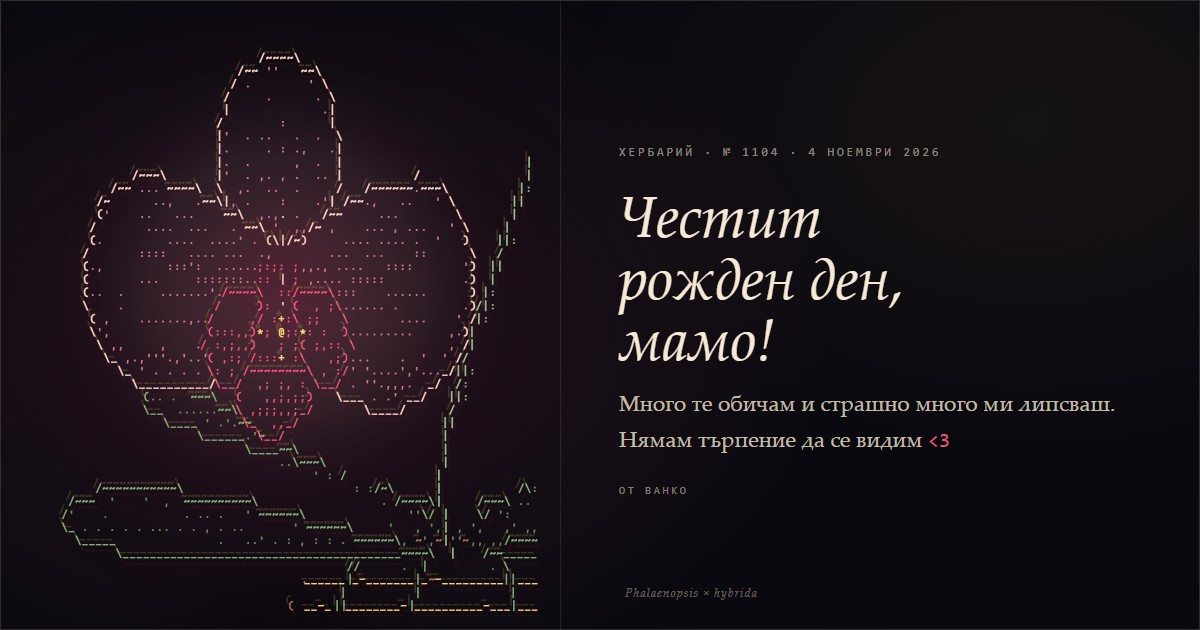
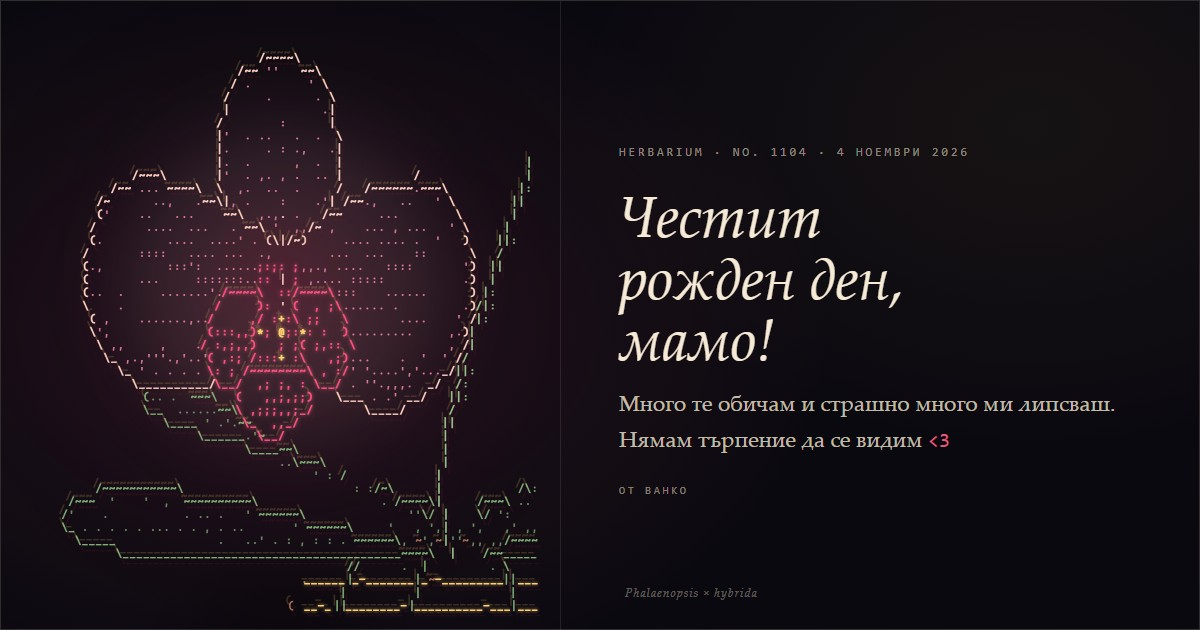
feat: orchid v6 — distinctive lip, flower physics, wider turn
Full dense plant remains the default; all blooms open together. The labellum and column are re-inked on top with a glow, each flower has an independent spring, yaw/pitch ranges are wider, and only the date and wish remain Bulgarian.

diff --git a/static/orchid1104/src/scene.js b/static/orchid1104/src/scene.js
@@ -48,6 +48,7 @@ export class OrchidScene {
     this.onState = onState;
     this.occupied = Array.from({ length: art.rows }, () => Array(art.cols).fill(false));
     for (const c of art.cells) this.occupied[c.y][c.x] = true;
+    this.initBloomPhysics();
     this.time = 0;
     this.theme = reduced ? 1 : 0;
     this.manualTheme = null;
@@ -80,6 +81,14 @@ export class OrchidScene {
     this.resize();
   }
 
+  initBloomPhysics() {
+    this.bphysics = this.art.blooms.map((b, i) => ({
+      x: 0, y: 0, vx: 0, vy: 0,
+      rot: 0, vrot: 0,
+      phase: i * 2.13 + 0.7
+    }));
+  }
+
   initParticles() {
     const cols = this.art.cols, rows = this.art.rows;
     const count = cols > 80 ? 44 : 28;
@@ -103,6 +112,7 @@ export class OrchidScene {
     this.art = art;
     this.occupied = Array.from({ length: art.rows }, () => Array(art.cols).fill(false));
     for (const c of art.cells) this.occupied[c.y][c.x] = true;
+    this.initBloomPhysics();
     this.cameraMode = cameraMode;
     this.setCamera(cameraMode);
     this.initParticles();
@@ -190,6 +200,7 @@ export class OrchidScene {
     this.hearts = [];
     this.heartsSpawned = false;
     this.lastPetal = 0;
+    this.initBloomPhysics();
     this.initParticles();
     this.emit(true);
     if (this.reduced) this.draw();
@@ -248,12 +259,34 @@ export class OrchidScene {
     this.yawVel += (targetYaw - this.yaw) * k * dt;
     this.yawVel *= Math.pow(damp, dt * 60);
     this.yaw += this.yawVel * dt;
-    this.yaw = clamp(this.yaw, -30, 30);
+    this.yaw = clamp(this.yaw, -55, 55);
 
     this.pitchVel += (this.pitchTarget - this.pitch) * 30 * dt;
     this.pitchVel *= Math.pow(0.86, dt * 60);
     this.pitch += this.pitchVel * dt;
-    this.pitch = clamp(this.pitch, -14, 14);
+    this.pitch = clamp(this.pitch, -20, 20);
+
+    // each flower has its own spring: it lags the plant, sways on its own
+    // phase, and takes a separate kick from clicks and drags.
+    const yr = (this.yaw * Math.PI) / 180;
+    const pr = (this.pitch * Math.PI) / 180;
+    for (const p of this.bphysics) {
+      const tx = Math.sin(yr) * 0.55 + Math.sin(this.time * 0.8 + p.phase) * 0.12;
+      const ty = Math.sin(pr) * 0.35 + Math.cos(this.time * 0.7 + p.phase) * 0.08;
+      const tr = Math.sin(yr) * 0.035 + Math.sin(this.time * 0.9 + p.phase) * 0.008;
+      p.vx += (tx - p.x) * 26 * dt;
+      p.vx *= Math.pow(0.84, dt * 60);
+      p.x += p.vx * dt;
+      p.vy += (ty - p.y) * 24 * dt;
+      p.vy *= Math.pow(0.84, dt * 60);
+      p.y += p.vy * dt;
+      p.vrot += (tr - p.rot) * 22 * dt;
+      p.vrot *= Math.pow(0.82, dt * 60);
+      p.rot += p.vrot * dt;
+      p.x = clamp(p.x, -2.8, 2.8);
+      p.y = clamp(p.y, -2.2, 2.2);
+      p.rot = clamp(p.rot, -0.20, 0.20);
+    }
 
     // particles
     for (const p of this.particles) {
@@ -431,6 +464,15 @@ export class OrchidScene {
         const scale = 0.16 + 0.84 * open;
         x = b.cx + (x - b.cx) * scale;
         y = b.cy + (y - b.cy) * scale;
+        const p = this.bphysics[bIdx];
+        if (p) {
+          const rx = x - b.cx;
+          const ry = y - b.cy;
+          const ca = Math.cos(p.rot);
+          const sa = Math.sin(p.rot);
+          x = b.cx + rx * ca - ry * sa + p.x;
+          y = b.cy + rx * sa + ry * ca + p.y;
+        }
         alpha = raw < 0.08 ? 0.55 : Math.min(1, open * 1.4);
       } else if (uIdx >= 0) {
         const b = art.buds[uIdx];
@@ -488,6 +530,7 @@ export class OrchidScene {
         ch: cell.ch,
         color,
         alpha,
+        key: cell.key,
         stipple: '.,:;`\'"'.includes(cell.ch)
       });
     }
@@ -523,6 +566,23 @@ export class OrchidScene {
       ctx.fillStyle = pal.gold;
       ctx.fillText(op.ch, px, py);
     }
+    ctx.globalAlpha = 1;
+
+    // the orchid's signature: a lit column, pollinia and a three-lobed lip
+    // sit on top of the plate so the flower cannot be mistaken for a daisy.
+    ctx.save();
+    ctx.font = `${font * 1.06}px ${MONO}`;
+    ctx.shadowBlur = this.theme > 0.5 ? 7 : 0;
+    for (const op of ops) {
+      if (op.key !== 'lip' && op.key !== 'lipDark' && op.key !== 'gold') continue;
+      const px = this.ox + (op.x + 0.5) * this.cw;
+      const py = this.oy + (op.y + 0.5) * this.ch;
+      ctx.globalAlpha = op.alpha * 0.95;
+      ctx.fillStyle = op.color;
+      ctx.shadowColor = op.key === 'gold' ? pal.gold : pal.glow;
+      ctx.fillText(op.ch, px, py);
+    }
+    ctx.restore();
     ctx.globalAlpha = 1;
 
     // pollen
@@ -600,6 +660,11 @@ export class OrchidScene {
       });
     }
     if (this.particles.length > 90) this.particles.splice(0, this.particles.length - 90);
+    for (const p of this.bphysics) {
+      p.vx += (Math.random() - 0.5) * 1.25;
+      p.vy += (Math.random() - 0.5) * 0.9;
+      p.vrot += (Math.random() - 0.5) * 0.12;
+    }
   }
 
   setPointer(x, y, rect) {
@@ -614,14 +679,21 @@ export class OrchidScene {
     this.dragStartY = y;
     this.dragStartYaw = this.yaw;
     this.dragStartPitch = this.pitch;
+    this.lastDragX = x;
   }
 
   moveDrag(x, width, y = 0, height = 1) {
     if (!this.dragging) return;
     const dx = x - this.dragStartX;
     const dy = y - this.dragStartY;
-    this.yawTarget = clamp(this.dragStartYaw + (dx / width) * 90, -28, 28);
-    this.pitchTarget = clamp(this.dragStartPitch - (dy / height) * 40, -12, 12);
+    this.yawTarget = clamp(this.dragStartYaw + (dx / width) * 150, -50, 50);
+    this.pitchTarget = clamp(this.dragStartPitch - (dy / height) * 55, -20, 20);
+    const step = x - (this.lastDragX ?? x);
+    this.lastDragX = x;
+    for (const p of this.bphysics) {
+      p.vx += (step / width) * 1.5 * (0.65 + Math.random() * 0.7);
+      p.vrot += (step / width) * 0.055 * (Math.random() - 0.5);
+    }
     this.dragHint = true;
   }
 
@@ -629,6 +701,7 @@ export class OrchidScene {
     this.dragging = false;
     this.yawTarget = 0;
     this.pitchTarget = 0;
+    this.lastDragX = null;
   }
 }
 

diff --git a/static/orchid1104/index.html b/static/orchid1104/index.html
@@ -1,21 +1,21 @@
 <!doctype html>
-<html lang="bg">
+<html lang="en">
 <head>
   <meta charset="utf-8">
   <meta name="viewport" content="width=device-width, initial-scale=1, viewport-fit=cover">
   <meta name="robots" content="noindex,nofollow">
-  <meta name="orchid-version" content="5">
+  <meta name="orchid-version" content="6">
   <meta name="theme-color" content="#f6efe0">
-  <meta name="description" content="Орхидея № 1104 — жива хербарийна страница за мама. Честит рожден ден!">
-  <meta property="og:title" content="Орхидея № 1104 — за мама">
-  <meta property="og:description" content="Жива хербарийна страница с орхидея и пожелание за рождения ден на мама.">
+  <meta name="description" content="Orchid No. 1104 — a living herbarium page for Mom. Happy birthday!">
+  <meta property="og:title" content="Orchid No. 1104 — for Mom">
+  <meta property="og:description" content="A living herbarium page with an ASCII orchid and a birthday wish for Mom.">
   <meta property="og:type" content="website">
   <meta property="og:url" content="https://www.ivaniliev.online/orchid1104/">
   <meta property="og:image" content="https://www.ivaniliev.online/orchid1104/og.jpg">
   <meta property="og:image:width" content="1200">
   <meta property="og:image:height" content="630">
   <meta name="twitter:card" content="summary_large_image">
-  <title>Орхидея № 1104 — за мама</title>
+  <title>Orchid No. 1104 — for Mom</title>
   <link rel="icon" href="favicon.svg" type="image/svg+xml">
   <link rel="stylesheet" href="styles.css">
 </head>
@@ -23,8 +23,8 @@
   <canvas id="ambient" aria-hidden="true"></canvas>
   <div class="page">
     <header class="masthead">
-      <p class="eyebrow">ХЕРБАРИЙ <span aria-hidden="true">·</span> № 1104</p>
-      <p class="date">4 НОЕМВРИ 2026</p>
+      <p class="eyebrow">HERBARIUM <span aria-hidden="true">·</span> No. 1104</p>
+      <p class="date" lang="bg">4 НОЕМВРИ 2026</p>
     </header>
 
     <main class="stage-wrap">
@@ -33,7 +33,7 @@
         <span class="tick tick-tr" aria-hidden="true"></span>
         <span class="tick tick-bl" aria-hidden="true"></span>
         <span class="tick tick-br" aria-hidden="true"></span>
-        <canvas id="scene" role="img" aria-label="ASCII портрет на цъфтяща орхидея Phalaenopsis в саксия. Три отворени цвята, две пъпки и широки листа. Плъзнете, за да завъртите растението."></canvas>
+        <canvas id="scene" role="img" aria-label="ASCII portrait of a flowering Phalaenopsis orchid in a pot. Three open flowers, three buds and broad leaves. Drag to turn the plant."></canvas>
         <figcaption id="plate-caption" class="specimen">
           <span class="latin">Phalaenopsis × hybrida</span>
           <span class="plate-meta">ASCII · 160 × 100</span>
@@ -41,7 +41,7 @@
       </figure>
     </main>
 
-    <section class="dedication" aria-label="Поздрав">
+    <section class="dedication" lang="bg" aria-label="Поздрав">
       <p class="prelude" aria-hidden="true">за мама</p>
       <div class="tag-body">
         <p class="wish-line line-1">Честит рожден ден, мамо!</p>
@@ -52,20 +52,20 @@
     </section>
 
     <footer class="colophon">
-      <div class="controls" role="group" aria-label="Контроли">
+      <div class="controls" role="group" aria-label="Controls">
         <button type="button" id="replay">[ replay ]</button>
         <button type="button" id="theme" aria-pressed="false">[ night ]</button>
         <button type="button" id="camera" class="camera" hidden>[ full plant ]</button>
         <span class="hint" id="hint">drag to turn</span>
       </div>
-      <p class="footer-note">жива хербарийна страница</p>
+      <p class="footer-note">a living herbarium page</p>
     </footer>
   </div>
 
   <div class="sr-only" id="static-art" aria-hidden="true"></div>
 
   <noscript>
-    <div class="noscript">
+    <div class="noscript" lang="bg">
       <p>Честит рожден ден, мамо!</p>
       <p>Много те обичам и страшно много ми липсваш.</p>
       <p>Нямам търпение да се видим &lt;3</p>
